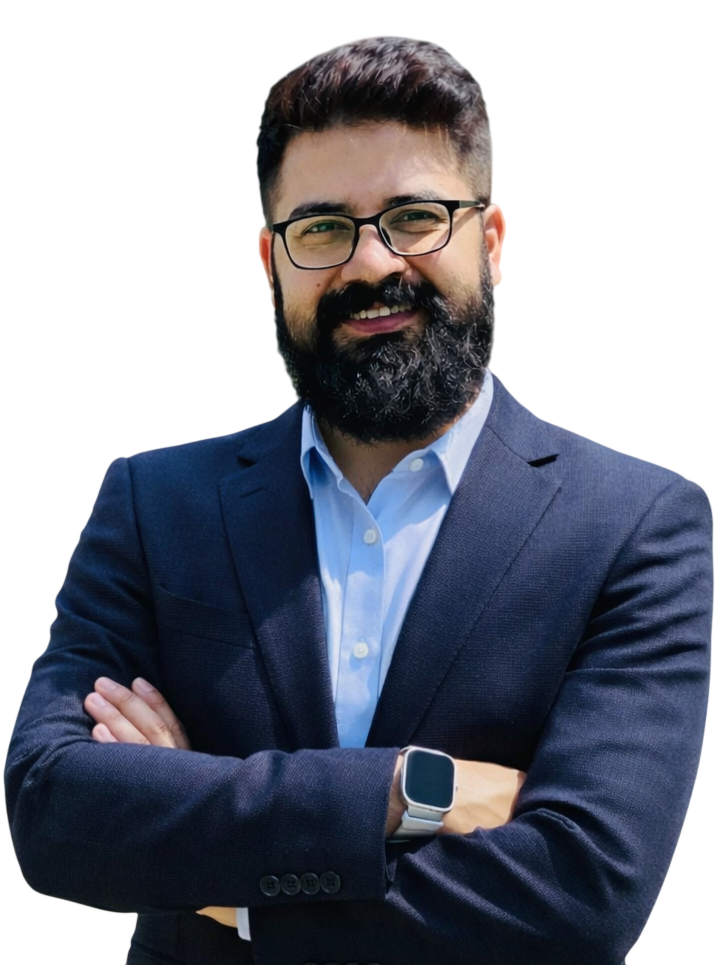
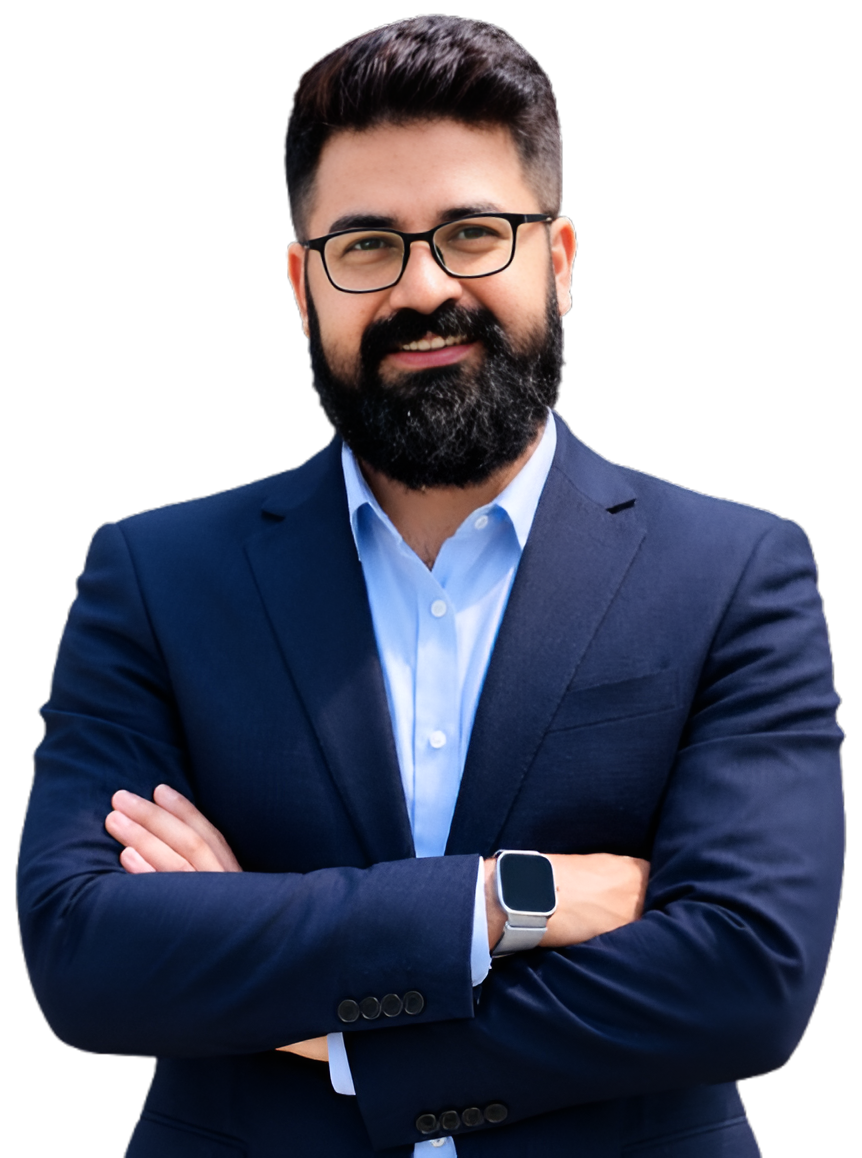
update project card and hero image

diff --git a/src/components/PageProjectsCard.jsx b/src/components/PageProjectsCard.jsx
@@ -72,7 +72,7 @@ const ProjectsArray = [
 
 export const PageProjectsCard = ({ activeMenu }) => {
   return (
-    <motion.ul className="grid grid-cols-1 md:grid-cols-3 md:px-10 w-full gap-4">
+    <motion.ul className="grid grid-cols-1 md:grid-cols-3 md:px-10 w-full gap-6">
       <AnimatePresence>
         {ProjectsArray.filter(
           (item) =>
@@ -84,22 +84,41 @@ export const PageProjectsCard = ({ activeMenu }) => {
             <motion.li
               key={ele.name + index}
               layout
-              initial={{ opacity: 0, scale: 0.9 }}
-              animate={{ opacity: 1, scale: 1 }}
+              initial={{ opacity: 0, scale: 0.9, y: 20 }}
+              animate={{ opacity: 1, scale: 1, y: 0 }}
               exit={{ opacity: 0, scale: 0.8 }}
               transition={{ duration: 0.3 }}
+              whileHover={{ y: -8 }}
               className="w-full"
             >
-              <div className="flex flex-col h-full rounded shadow-md gap-5">
-                <div className="flex flex-col items-center gap-6 pb-3">
-                  <div className={`w-full h-40 ${ele.bg} rounded shrink-0 flex items-center justify-center`}>
-                    <img src={ele.icon} alt="icon" className="w-15" />
-                  </div>
-                  <div className="w-full flex items-center justify-start px-10 h-20 py-5">
-                    <h3 className="herotext_color text-[19px] text-left font-medium">
-                      {ele.name}
-                    </h3>
-                  </div>
+              <div className="flex flex-col h-full rounded-2xl shadow-md hover:shadow-2xl transition-shadow duration-300 overflow-hidden bg-white border border-gray-100">
+                <div
+                  className={`w-full h-44 ${ele.bg} flex items-center justify-center group`}
+                >
+                  <motion.img
+                    src={ele.icon}
+                    alt="icon"
+                    className="w-16 drop-shadow-md"
+                    whileHover={{ scale: 1.15, rotate: 5 }}
+                    transition={{ type: "spring", stiffness: 300 }}
+                  />
+                </div>
+
+                <div className="flex flex-col gap-4 p-5">
+                  <h3 className="herotext_color text-lg font-semibold leading-snug">
+                    {ele.name}
+                  </h3>
+
+                  <ul className="flex items-center gap-2 flex-wrap">
+                    {ele.tech_stack.map((item, i) => (
+                      <li
+                        className="px-3 py-1 rounded-full bg-blue-50 text-blue-700 border border-blue-100 hover:bg-blue-100 cursor-pointer text-[13px] font-medium transition-colors"
+                        key={i}
+                      >
+                        {item}
+                      </li>
+                    ))}
+                  </ul>
                 </div>
               </div>
             </motion.li>
